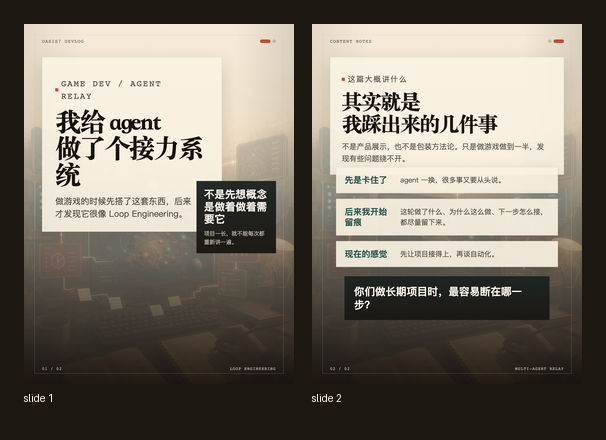
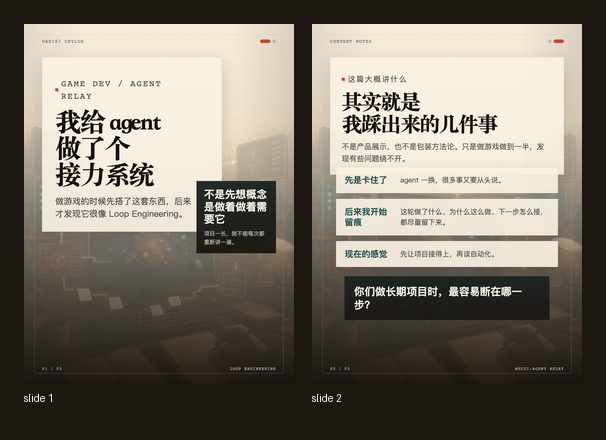
Fix Xiaohongshu cover title wrap

Changed region(s): [[0.0891, 0.2955, 0.3564, 0.4432]]

diff --git a/site/social/xiaohongshu-loop-engineering-carousel.html b/site/social/xiaohongshu-loop-engineering-carousel.html
@@ -458,7 +458,7 @@
         <div class="canvas">
           <div class="cover-copy panel">
             <p class="kicker">GAME DEV / AGENT RELAY</p>
-            <h1><span>我给 agent</span><span>做了个接力系统</span></h1>
+            <h1><span>我给 agent</span><span>做了个</span><span>接力系统</span></h1>
             <p>做游戏的时候先搭了这套东西，后来才发现它很像 Loop Engineering。</p>
           </div>
           <div class="cover-badge dark">

diff --git a/.pm/tasks/task_a9ab9b9760c24e1fac5a31a157404408.execution.md b/.pm/tasks/task_a9ab9b9760c24e1fac5a31a157404408.execution.md
@@ -193,3 +193,28 @@ Example:
 - Expected Result: changed files have no whitespace/check errors; publish PNGs remain 1080x1440 and nonblank.
 - Actual Result: `git diff --check` exited 0; cover, slide 1, and slide 2 are 1080x1440 and nonblank; only slide 1 and slide 2 remain in exported carousel PNGs.
 - Blocker / Next Action: none.
+
+## 2026-06-15 18:27:00 CST / tpm
+- Review Trigger: pre-PR local role review
+- Review Scope: `main...HEAD` at `2a7c7c7532900345de431e00b265ff99bac8890a`; changed paths include `.pm` task truth, Xiaohongshu liveops runbook link, Loop Engineering post pack doc, and two-image social visual assets under `site/social/`.
+- Review Roles: `liveops_community`, `game_visual_interaction_designer`
+- Review Question: confirm the PR-ready content and visual package is safe for external/community-facing Xiaohongshu use, does not overclaim product maturity or AI automation, and that the two-image visual package is coherent, readable, and consistent with the final user direction.
+- Evidence Available: execution log entries above; post pack doc; rendered contact sheet and exported slide PNGs; final verification command in task YAML with exit code 0.
+- Expected Return Contract: `findings | no_findings | residual_risk`
+- Formal Sink: this execution log; findings will be integrated before `prepare-task-pr.sh --create`.
+
+## 2026-06-15 18:36:00 CST / liveops_community
+- Review Trigger: pre-PR local role review result
+- Findings: none.
+- No Findings Evidence: post pack keeps the material framed as a project practice share rather than an上线、公测、可玩或 mature product展示承诺;正文和评论区预案明确纠偏 `不是全自动` and preserve the human-responsibility framing; runbook links the new素材包 and retains pre-publish stage-boundary checks; two-image asset references and `01 / 02` / `02 / 02` pagination are consistent.
+- Residual Risk: `Loop Engineering` may still be unfamiliar to Xiaohongshu readers, but the copy uses `接力系统 / 留痕 / 下一步怎么接` as a concrete口语化入口; cover may prompt tool-implementation questions, which should be captured through the runbook as future topic input.
+
+## 2026-06-15 18:39:00 CST / game_visual_interaction_designer
+- Review Trigger: pre-PR local role review result
+- Finding: P2 cover title wrap issue in `site/social/xiaohongshu-loop-engineering-carousel.html`; exported slide 1 / cover visually wrapped `做了个接力系统` as `做了个接力系 / 统`, leaving the final character alone and making the cover feel stiff.
+- No Findings Evidence: HTML has only two slide sections; pagination and progress dots match `01 / 02` and `02 / 02`; slide 2 is clear and conversational; formal publish files are slide 1 and slide 2 while the contact sheet is preview-only.
+- Residual Risk: small English labels retain a mild tool-like feel but are low emphasis and not blocking; contact sheet must not be uploaded as a publish image.
+- Disposition: addressed. Changed the cover title to explicit three-line copy `我给 agent / 做了个 / 接力系统`, re-rendered `xiaohongshu-loop-engineering-cover.png`, slide 1, slide 2, and the contact sheet, and visually inspected the updated contact sheet. The final character no longer wraps alone.
+- Validation Command: PIL dimension/pixel check for cover plus two slides.
+- Expected Result: cover, slide 1, and slide 2 remain 1080x1440 and nonblank after the title-wrap fix.
+- Actual Result: cover, slide 1, and slide 2 are 1080x1440 and nonblank; updated contact sheet shows natural cover title wrapping.
